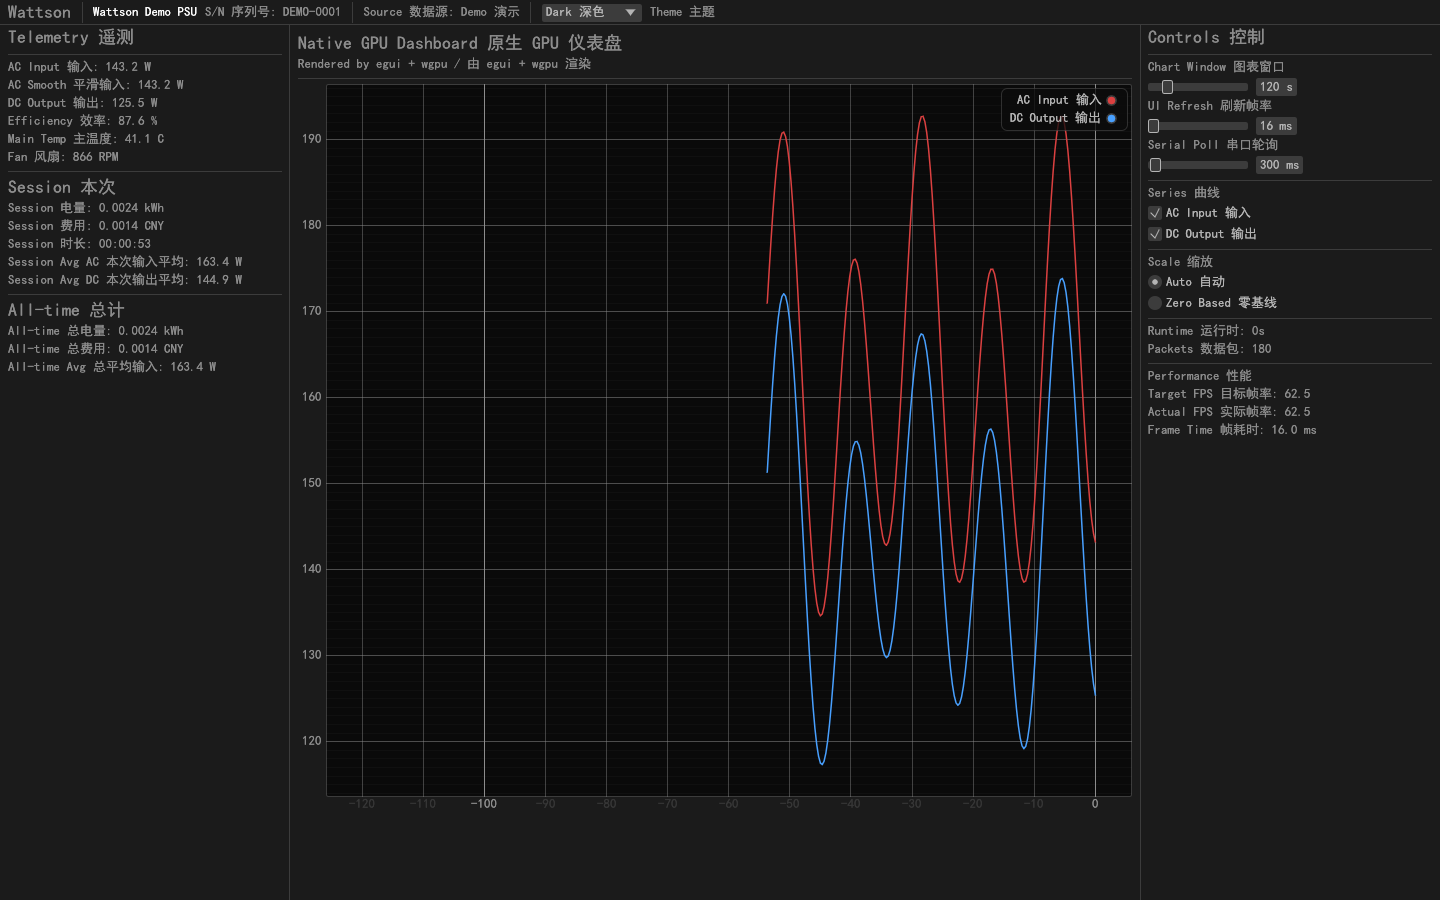
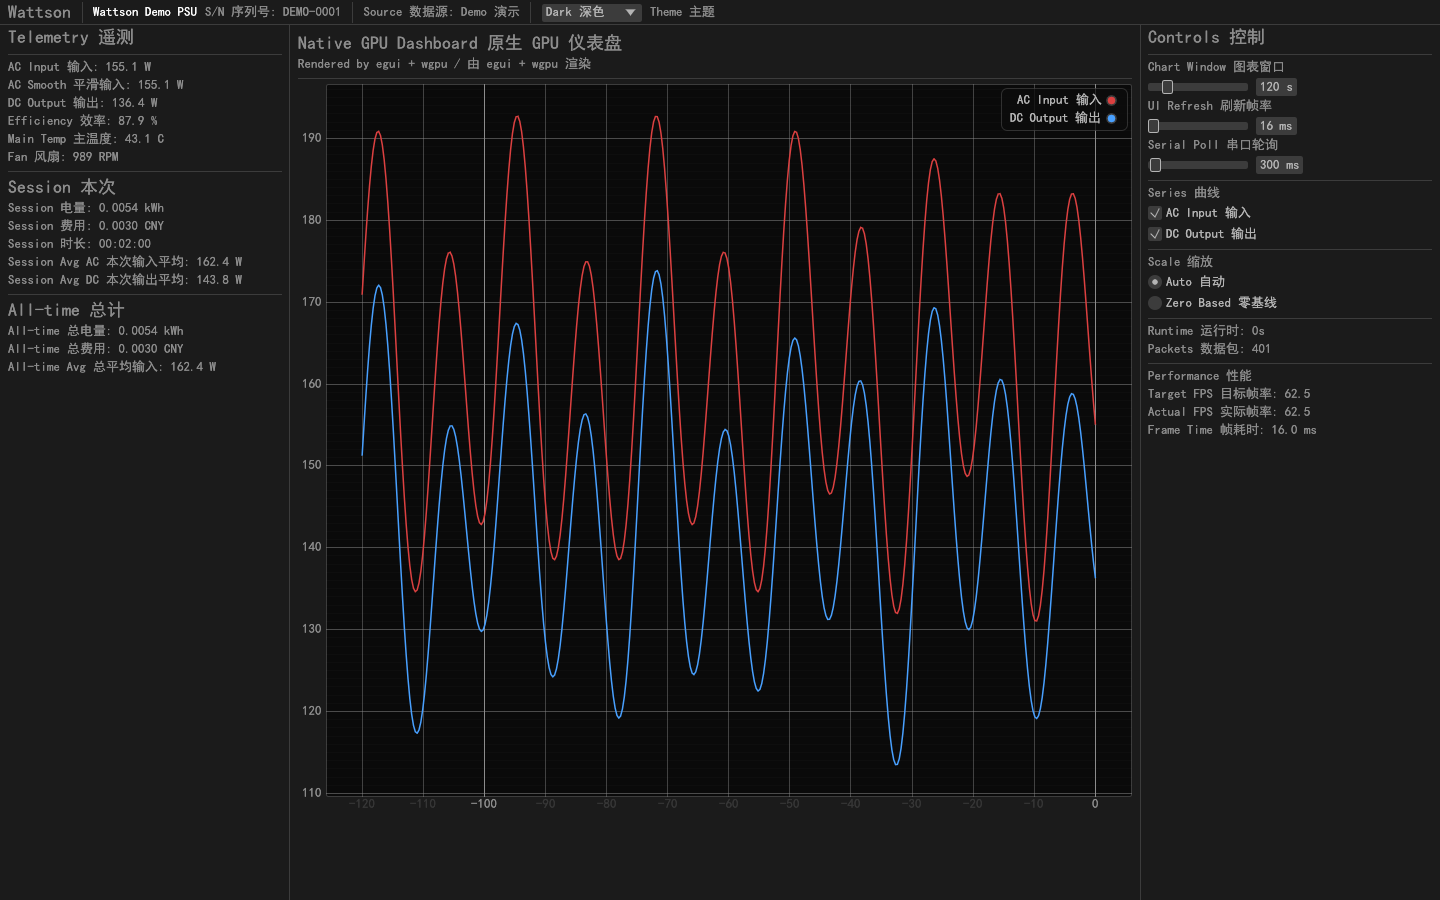
fix: unify gui persistence and polish dashboard behavior

diff --git a/src/config.rs b/src/config.rs
@@ -145,12 +145,24 @@ impl Default for Config {
 impl Config {
     /// Find config file: current dir first, then ~/.config/wattson/
     fn find_path() -> Option<PathBuf> {
-        let local = PathBuf::from("wattson.toml");
+        let cwd = std::env::current_dir().unwrap_or_else(|_| PathBuf::from("."));
+        Self::find_path_for(&cwd, dirs::config_dir().as_deref())
+    }
+
+    fn find_path_for(cwd: &Path, global_config_dir: Option<&Path>) -> Option<PathBuf> {
+        if let Some(shared_root) = Self::linked_worktree_primary_root(cwd) {
+            let shared = shared_root.join("wattson.toml");
+            if shared.exists() {
+                return Some(shared);
+            }
+        }
+
+        let local = cwd.join("wattson.toml");
         if local.exists() {
             return Some(local);
         }
 
-        if let Some(config_dir) = dirs::config_dir() {
+        if let Some(config_dir) = global_config_dir {
             let global = config_dir.join("wattson").join("wattson.toml");
             if global.exists() {
                 return Some(global);
@@ -158,6 +170,43 @@ impl Config {
         }
 
         None
+    }
+
+    fn default_path() -> PathBuf {
+        let cwd = std::env::current_dir().unwrap_or_else(|_| PathBuf::from("."));
+        Self::default_path_for(&cwd)
+    }
+
+    fn default_path_for(cwd: &Path) -> PathBuf {
+        if let Some(shared_root) = Self::linked_worktree_primary_root(cwd) {
+            return shared_root.join("wattson.toml");
+        }
+
+        cwd.join("wattson.toml")
+    }
+
+    fn linked_worktree_primary_root(cwd: &Path) -> Option<PathBuf> {
+        let dot_git = cwd.join(".git");
+        if !dot_git.is_file() {
+            return None;
+        }
+
+        let git_pointer = fs::read_to_string(&dot_git).ok()?;
+        let gitdir = git_pointer.strip_prefix("gitdir:")?.trim();
+        let gitdir_path = PathBuf::from(gitdir);
+        let gitdir_path = if gitdir_path.is_absolute() {
+            gitdir_path
+        } else {
+            cwd.join(gitdir_path)
+        };
+
+        let worktrees_dir = gitdir_path.parent()?;
+        if worktrees_dir.file_name()? != "worktrees" {
+            return None;
+        }
+
+        let common_git_dir = worktrees_dir.parent()?;
+        common_git_dir.parent().map(Path::to_path_buf)
     }
 
     /// Load config from file, or return default if no file found
@@ -177,7 +226,7 @@ impl Config {
 
     /// Save config to the given path (or default location)
     pub fn save(&self) -> Result<PathBuf, String> {
-        let path = Self::find_path().unwrap_or_else(|| PathBuf::from("wattson.toml"));
+        let path = Self::find_path().unwrap_or_else(Self::default_path);
         self.save_to(&path)?;
         Ok(path)
     }
@@ -232,9 +281,9 @@ impl Config {
 
     /// Initialize default config file in current directory
     pub fn init_default() -> Result<PathBuf, String> {
-        let path = PathBuf::from("wattson.toml");
+        let path = Self::default_path();
         if path.exists() {
-            return Err("wattson.toml already exists in current directory".to_string());
+            return Err(format!("wattson.toml already exists at {}", path.display()));
         }
         let config = Self::default();
         config.save_to(&path)?;
@@ -244,5 +293,56 @@ impl Config {
     /// Return the path of the config file being used (or None)
     pub fn active_path() -> Option<PathBuf> {
         Self::find_path()
+    }
+}
+
+#[cfg(test)]
+mod tests {
+    use super::*;
+    use std::time::{SystemTime, UNIX_EPOCH};
+
+    fn temp_dir(prefix: &str) -> PathBuf {
+        let unique = SystemTime::now()
+            .duration_since(UNIX_EPOCH)
+            .expect("system time")
+            .as_nanos();
+        std::env::temp_dir().join(format!("wattson-{prefix}-{unique}"))
+    }
+
+    #[test]
+    fn linked_worktree_prefers_primary_worktree_config() {
+        let root = temp_dir("primary-config");
+        let main_repo = root.join("main");
+        let worktree = root.join("gui-worktree");
+        let worktree_gitdir = main_repo.join(".git").join("worktrees").join("gui");
+
+        fs::create_dir_all(&worktree_gitdir).expect("create worktree gitdir");
+        fs::create_dir_all(&worktree).expect("create worktree dir");
+        fs::write(main_repo.join("wattson.toml"), "from='main'").expect("write main config");
+        fs::write(worktree.join("wattson.toml"), "from='worktree'").expect("write worktree config");
+        fs::write(
+            worktree.join(".git"),
+            format!("gitdir: {}\n", worktree_gitdir.display()),
+        )
+        .expect("write worktree .git");
+
+        let resolved = Config::find_path_for(&worktree, None);
+
+        assert_eq!(resolved, Some(main_repo.join("wattson.toml")));
+
+        let _ = fs::remove_dir_all(&root);
+    }
+
+    #[test]
+    fn normal_repo_prefers_local_config_when_not_in_linked_worktree() {
+        let root = temp_dir("local-config");
+        fs::create_dir_all(&root).expect("create temp root");
+        fs::write(root.join("wattson.toml"), "from='local'").expect("write local config");
+
+        let resolved = Config::find_path_for(&root, None);
+
+        assert_eq!(resolved, Some(root.join("wattson.toml")));
+
+        let _ = fs::remove_dir_all(&root);
     }
 }

diff --git a/src/gui.rs b/src/gui.rs
@@ -172,7 +172,10 @@ impl GuiApp {
 
         app.set_poll_interval_ms(app.settings.poll_interval_ms);
         if demo {
-            app.seed_demo_history(180);
+            let chart_window_samples =
+                (app.settings.chart_window_s.saturating_mul(1000) / app.settings.poll_interval_ms)
+                    + 1;
+            app.seed_demo_history(chart_window_samples.max(180));
         } else {
             app.ingest_sample(true);
         }
@@ -206,6 +209,11 @@ impl GuiApp {
         {
             handle.set_poll_ms(clamped);
         }
+    }
+
+    pub fn sync_window_size(&mut self, width: f32, height: f32) {
+        self.settings.window_width = width.round().max(1.0) as u32;
+        self.settings.window_height = height.round().max(1.0) as u32;
     }
 
     pub fn visible_series_count(&self) -> usize {
@@ -606,8 +614,8 @@ impl GuiApp {
                 ));
                 ui.separator();
                 ui.label(format!(
-                    "Data age 数据龄期: {:.1}s",
-                    latest.snapshot.meta.data_age_s
+                    "Data age 数据龄期: {}",
+                    format_data_age(latest.snapshot.meta.data_age_s)
                 ));
                 ui.separator();
                 ui.label(format!("Errors 错误: {}", latest.snapshot.meta.error_count));
@@ -619,6 +627,8 @@ impl GuiApp {
 impl App for GuiApp {
     fn logic(&mut self, ctx: &egui::Context, _frame: &mut Frame) {
         self.apply_theme(ctx);
+        let viewport_size = ctx.content_rect().size();
+        self.sync_window_size(viewport_size.x, viewport_size.y);
         self.ingest_sample(false);
         self.update_frame_timing();
         ctx.request_repaint_after(Duration::from_millis(self.settings.ui_refresh_ms));
@@ -661,4 +671,23 @@ fn format_duration_hms(duration_s: f64) -> String {
     let minutes = ((duration_s % 3600.0) / 60.0) as u64;
     let seconds = (duration_s % 60.0) as u64;
     format!("{hours:02}:{minutes:02}:{seconds:02}")
+}
+
+fn format_data_age(data_age_s: f64) -> String {
+    if !data_age_s.is_finite() {
+        return "N/A 未知".to_string();
+    }
+
+    format!("{data_age_s:.1}s")
+}
+
+#[cfg(test)]
+mod tests {
+    use super::*;
+
+    #[test]
+    fn format_data_age_hides_non_finite_values() {
+        assert_eq!(format_data_age(f64::INFINITY), "N/A 未知");
+        assert_eq!(format_data_age(f64::NAN), "N/A 未知");
+    }
 }

diff --git a/tests/gui_app.rs b/tests/gui_app.rs
@@ -51,3 +51,21 @@ fn gui_app_reports_refresh_performance_targets() {
     assert!((perf.target_fps - 50.0).abs() < 0.1);
     assert!(perf.frame_time_ms >= 0.0);
 }
+
+#[test]
+fn gui_app_updates_persisted_window_dimensions_from_viewport_changes() {
+    let mut app = GuiApp::demo();
+
+    app.sync_window_size(1600.0, 960.0);
+
+    assert_eq!(app.settings().window_width, 1600);
+    assert_eq!(app.settings().window_height, 960);
+}
+
+#[test]
+fn gui_demo_prefills_enough_history_for_the_default_chart_window() {
+    let app = GuiApp::demo();
+    let metrics = app.summary_metrics().expect("summary metrics");
+
+    assert!(metrics.session_duration_s >= app.settings().chart_window_s as f64 - 1.0);
+}
